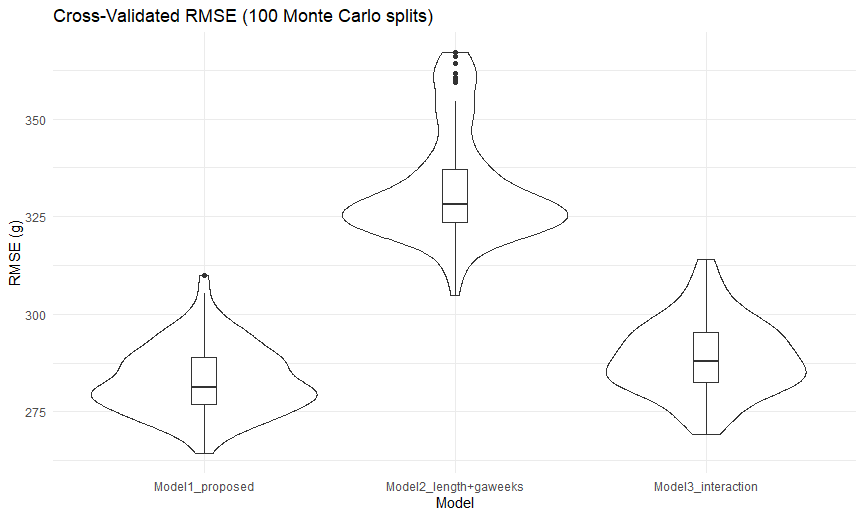
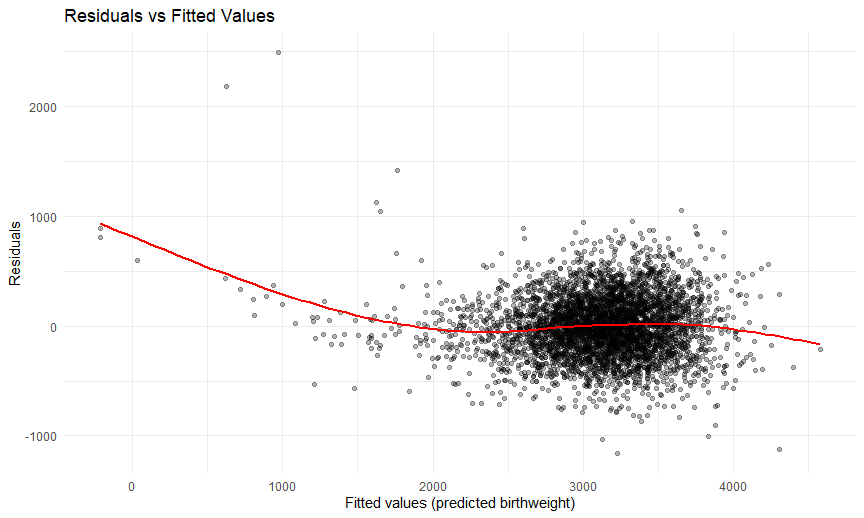
Finished

diff --git a/p8105_hw6.md b/p8105_hw6.md
@@ -61,14 +61,16 @@ bal_fit = baltimore %>%
 bal_fit %>%
   broom::tidy(conf.int = TRUE) %>%
   filter(term == "victim_sexMale") %>%
-  mutate(OR = exp(estimate)) %>%
-  select(term, log_estimate = OR, conf.low, conf.high) %>%
+  mutate(OR = exp(estimate),
+         OR_lower = exp(conf.low),
+         OR_higher = exp(conf.high)) %>%
+  select(term, log_estimate = OR, OR_lower, OR_higher) %>%
   knitr::kable(digits = 3)
 ```
 
-| term           | log_estimate | conf.low | conf.high |
+| term           | log_estimate | OR_lower | OR_higher |
 |:---------------|-------------:|---------:|----------:|
-| victim_sexMale |        0.426 |   -1.126 |    -0.584 |
+| victim_sexMale |        0.426 |    0.324 |     0.558 |
 
 ``` r
 bal_fit
@@ -87,63 +89,115 @@ bal_fit
     ## Residual Deviance: 3493  AIC: 3501
 
 ``` r
-nested = dis_df %>%
-  group_by(city_state) %>%
-  nest() %>%
-  mutate(
-    fit = purrr::map(data, ~ glm(
-      solved ~ victim_age + victim_sex + victim_race,
-      data = .,
-      family = binomial
-    ))
-  )
-nested
+fit_logistic = dis_df %>% 
+  select(city_state, solved, victim_age, victim_race, victim_sex) %>% 
+  nest(data = -city_state) %>%
+  mutate(models = map(data, \(df)glm(solved ~ victim_age + victim_race + victim_sex,family = binomial(), data = df)),
+         results = map(models, \(mod)broom::tidy(mod, conf.int = TRUE))) %>%
+  select(-models, -data) %>%
+  unnest(results)
 ```
 
-    ## # A tibble: 47 × 3
-    ## # Groups:   city_state [47]
-    ##    city_state     data                  fit   
-    ##    <chr>          <list>                <list>
-    ##  1 Albuquerque,NM <tibble [178 × 11]>   <glm> 
-    ##  2 Atlanta,GA     <tibble [945 × 11]>   <glm> 
-    ##  3 Baltimore,MD   <tibble [2,753 × 11]> <glm> 
-    ##  4 Baton Rouge,LA <tibble [410 × 11]>   <glm> 
-    ##  5 Birmingham,AL  <tibble [771 × 11]>   <glm> 
-    ##  6 Boston,MA      <tibble [492 × 11]>   <glm> 
-    ##  7 Buffalo,NY     <tibble [479 × 11]>   <glm> 
-    ##  8 Charlotte,NC   <tibble [584 × 11]>   <glm> 
-    ##  9 Chicago,IL     <tibble [4,507 × 11]> <glm> 
-    ## 10 Cincinnati,OH  <tibble [679 × 11]>   <glm> 
-    ## # ℹ 37 more rows
-
-``` r
-results = nested %>%
-  mutate(tidy_fit = map(fit, broom::tidy, conf.int = TRUE, exponentiate = TRUE)) %>%
-  unnest(tidy_fit) %>%
-  filter(term == "victim_sex.Male") %>%
-  select(
-    city_state,
-    OR = estimate,
-    conf.low,
-    conf.high)
-```
-
-    ## Warning: There were 43 warnings in `mutate()`.
+    ## Warning: There were 45 warnings in `mutate()`.
     ## The first warning was:
-    ## ℹ In argument: `tidy_fit = map(fit, broom::tidy, conf.int = TRUE, exponentiate
-    ##   = TRUE)`.
-    ## ℹ In group 1: `city_state = "Albuquerque,NM"`.
+    ## ℹ In argument: `results = map(models, function(mod) broom::tidy(mod, conf.int =
+    ##   TRUE))`.
     ## Caused by warning:
     ## ! glm.fit:拟合概率算出来是数值零或一
-    ## ℹ Run `dplyr::last_dplyr_warnings()` to see the 42 remaining warnings.
+    ## ℹ Run `dplyr::last_dplyr_warnings()` to see the 44 remaining warnings.
 
 ``` r
-results
+fit_logistic2 = 
+  fit_logistic %>% 
+  filter(str_detect(term, "Male")) %>%
+  group_by(city_state) %>%
+  mutate(OR = exp(estimate),
+         OR_lower = exp(conf.low),
+         OR_higher = exp(conf.high)) %>%
+  select(city_state, OR, OR_lower, OR_higher)
+
+fit_logistic2 %>%
+  knitr::kable()
 ```
 
-    ## # A tibble: 0 × 4
-    ## # Groups:   city_state [0]
-    ## # ℹ 4 variables: city_state <chr>, OR <dbl>, conf.low <dbl>, conf.high <dbl>
+| city_state        |        OR |  OR_lower | OR_higher |
+|:------------------|----------:|----------:|----------:|
+| Albuquerque,NM    | 1.7674995 | 0.8247081 | 3.7618600 |
+| Atlanta,GA        | 1.0000771 | 0.6803477 | 1.4582575 |
+| Baltimore,MD      | 0.4255117 | 0.3241908 | 0.5575508 |
+| Baton Rouge,LA    | 0.3814393 | 0.2043481 | 0.6836343 |
+| Birmingham,AL     | 0.8700153 | 0.5713814 | 1.3138409 |
+| Boston,MA         | 0.6739912 | 0.3534469 | 1.2768225 |
+| Buffalo,NY        | 0.5205704 | 0.2884416 | 0.9358300 |
+| Charlotte,NC      | 0.8838976 | 0.5507440 | 1.3905954 |
+| Chicago,IL        | 0.4100982 | 0.3361233 | 0.5008546 |
+| Cincinnati,OH     | 0.3998277 | 0.2313767 | 0.6670456 |
+| Columbus,OH       | 0.5324845 | 0.3770457 | 0.7479124 |
+| Denver,CO         | 0.4790620 | 0.2327380 | 0.9624974 |
+| Detroit,MI        | 0.5823472 | 0.4619454 | 0.7335458 |
+| Durham,NC         | 0.8123514 | 0.3824420 | 1.6580169 |
+| Fort Worth,TX     | 0.6689803 | 0.3935128 | 1.1211603 |
+| Fresno,CA         | 1.3351647 | 0.5672553 | 3.0475080 |
+| Houston,TX        | 0.7110264 | 0.5569844 | 0.9057376 |
+| Indianapolis,IN   | 0.9187284 | 0.6784616 | 1.2413059 |
+| Jacksonville,FL   | 0.7198144 | 0.5359236 | 0.9650986 |
+| Las Vegas,NV      | 0.8373078 | 0.6058830 | 1.1510854 |
+| Long Beach,CA     | 0.4102163 | 0.1427304 | 1.0241775 |
+| Los Angeles,CA    | 0.6618816 | 0.4565014 | 0.9541036 |
+| Louisville,KY     | 0.4905546 | 0.3014879 | 0.7836391 |
+| Memphis,TN        | 0.7232194 | 0.5261210 | 0.9835973 |
+| Miami,FL          | 0.5152379 | 0.3040214 | 0.8734480 |
+| Milwaukee,wI      | 0.7271327 | 0.4951325 | 1.0542297 |
+| Minneapolis,MN    | 0.9469587 | 0.4759016 | 1.8809745 |
+| Nashville,TN      | 1.0342379 | 0.6807452 | 1.5559966 |
+| New Orleans,LA    | 0.5849373 | 0.4218807 | 0.8121787 |
+| New York,NY       | 0.2623978 | 0.1327512 | 0.4850117 |
+| Oakland,CA        | 0.5630819 | 0.3637421 | 0.8671086 |
+| Oklahoma City,OK  | 0.9740747 | 0.6228507 | 1.5199721 |
+| Omaha,NE          | 0.3824861 | 0.1988357 | 0.7109316 |
+| Philadelphia,PA   | 0.4962756 | 0.3760120 | 0.6498797 |
+| Pittsburgh,PA     | 0.4307528 | 0.2626022 | 0.6955518 |
+| Richmond,VA       | 1.0060520 | 0.4834671 | 1.9936248 |
+| San Antonio,TX    | 0.7046200 | 0.3928179 | 1.2382509 |
+| Sacramento,CA     | 0.6688418 | 0.3262733 | 1.3143888 |
+| Savannah,GA       | 0.8669817 | 0.4185827 | 1.7802453 |
+| San Bernardino,CA | 0.5003444 | 0.1655367 | 1.4623977 |
+| San Diego,CA      | 0.4130248 | 0.1913527 | 0.8301847 |
+| San Francisco,CA  | 0.6075362 | 0.3116925 | 1.1551470 |
+| St. Louis,MO      | 0.7031665 | 0.5298505 | 0.9319005 |
+| Stockton,CA       | 1.3517273 | 0.6256427 | 2.9941299 |
+| Tampa,FL          | 0.8077029 | 0.3395253 | 1.8598834 |
+| Tulsa,OK          | 0.9757694 | 0.6090664 | 1.5439356 |
+| Washington,DC     | 0.6901713 | 0.4653608 | 1.0122516 |
+
+``` r
+fit_logistic_plot = fit_logistic2 %>%
+  ggplot(aes(x = fct_reorder(city_state, OR, .desc = TRUE),
+             y = OR,
+             ymin = OR_lower,
+             ymax = OR_higher,
+             color = ifelse(OR > 1, "OR > 1", "OR < 1"))) +
+  geom_errorbar(width = 0.3,
+                linewidth = 0.8,
+                alpha = 0.5) +
+  geom_point() +
+  coord_flip() +
+  labs(
+    x = "City",
+    y = "Odds Ratio (OR)",
+    title = "Odds of Homicide Case Resolution by Victim Sex (Male vs. Female)",
+    color = "Effect Direction"
+  )
+fit_logistic_plot
+```
+
+<img src="p8105_hw6_files/figure-gfm/unnamed-chunk-7-1.png" width="100%" />
+
+**The ranking reveals that most U.S. cities have lower homicide
+resolution rates for male victims, though the magnitude is modest in
+many places. Only a few cities show higher resolution rates for male
+victims. The plot efficiently highlights geographic variability in
+sex-related disparities in homicide case resolution.**
 
 # Problem 2
 
@@ -190,7 +244,7 @@ boot_df %>%
   )
 ```
 
-<img src="p8105_hw6_files/figure-gfm/unnamed-chunk-8-1.png" width="100%" />
+<img src="p8105_hw6_files/figure-gfm/unnamed-chunk-9-1.png" width="100%" />
 
 ``` r
 boot_df %>%
@@ -204,7 +258,7 @@ boot_df %>%
   )
 ```
 
-<img src="p8105_hw6_files/figure-gfm/unnamed-chunk-9-1.png" width="100%" />
+<img src="p8105_hw6_files/figure-gfm/unnamed-chunk-10-1.png" width="100%" />
 
 ``` r
 quantile(boot_df$r2, c(0.025, 0.975))
@@ -295,6 +349,7 @@ bw_df_plot = bw_df %>%
   add_residuals(model_bw) %>%
   ggplot(aes(x = pred, y = resid)) +
   geom_point(alpha = 0.3) +
+  geom_smooth(se = FALSE, color = "red") +
   labs(
     title = "Residuals vs Fitted Values",
     x = "Fitted values (predicted birthweight)",
@@ -303,7 +358,9 @@ bw_df_plot = bw_df %>%
 bw_df_plot
 ```
 
-<img src="p8105_hw6_files/figure-gfm/unnamed-chunk-13-1.png" width="100%" />
+    ## `geom_smooth()` using method = 'gam' and formula = 'y ~ s(x, bs = "cs")'
+
+<img src="p8105_hw6_files/figure-gfm/unnamed-chunk-14-1.png" width="100%" />
 
 **To develop a regression model for birthweight, I used a combination of
 subject-matter reasoning and data-driven exploration. In this way my
@@ -371,7 +428,7 @@ cv_df %>%
          y = "RMSE (g)", x = "Model")
 ```
 
-<img src="p8105_hw6_files/figure-gfm/unnamed-chunk-14-1.png" width="100%" />
+<img src="p8105_hw6_files/figure-gfm/unnamed-chunk-15-1.png" width="100%" />
 
 **According to the plot, Model 1 has the best predictive performance,
 with the lowest and most stable RMSE across 100 cross-validated splits.
